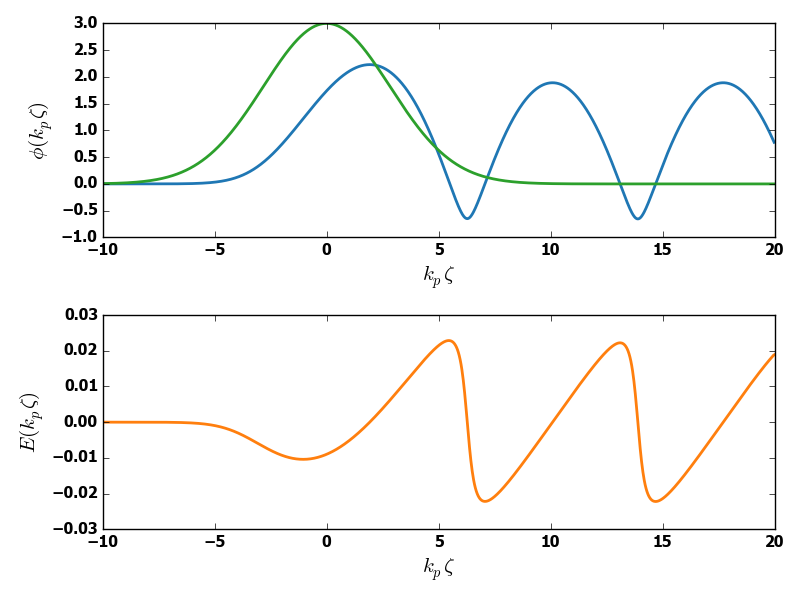
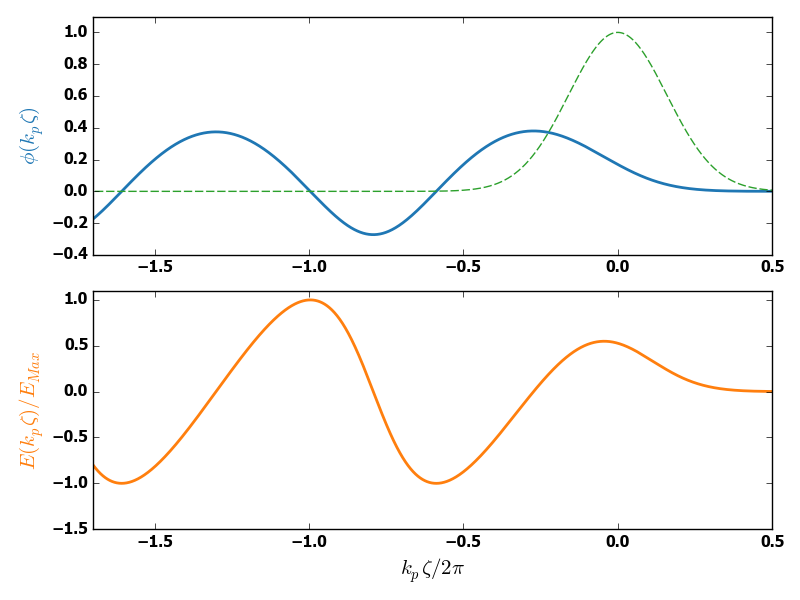
Added trajectories

diff --git a/LaserPlasmaAcc/Trajectories.py b/LaserPlasmaAcc/Trajectories.py
@@ -23,8 +23,8 @@ my_path = "C:\Users\\vernier\PycharmProjects\octo-elective\\"
 ##############################################
 
 n_e_cm = 1e19 # in cm-3
-a0 = 3.
-zeta_s = 4.
+a0 = 1.
+zeta_s = 2.
 zeta_0 = 0.0
 wavelength = 800*1e-9
 
@@ -39,6 +39,8 @@ omega_0 = 2*3.14*cs.c/wavelength
 gamma_p = omega_0/omega_p
 beta_p = 1 - 0.5*m.pow(omega_p/omega_0, 2)
 
+print "Gamma p = " + str(gamma_p)
+print "Beta p = " + str(beta_p)
 k_p = omega_p/cs.c
 v_p = cs.c*(1+0.5*m.pow(omega_p/omega_0, 2))
 
@@ -53,8 +55,6 @@ def H(_gamma, _beta_p, _phi):
 # Solution for gamma
 def gamma (_H0, _phi):
     if m.pow(gamma_p, 2)*m.pow(_H0 + _phi, 2) - 1 < 0:
-        print "H0 = " + str(_H0)
-        print "phi = " + str(_phi)
         return None, None
     else:
         g0 = gamma_p*gamma_p*(_H0 + _phi)
@@ -62,6 +62,19 @@ def gamma (_H0, _phi):
         sol1 = g0 - g1
         sol2 = g0 + g1
         return  sol1, sol2
+
+
+def uz (_H0, _phi, _a):
+    gamma_t_sq = 1 + _a*_a
+    if m.pow(gamma_p, 2)*pow((_H0 + _phi), 2) < gamma_t_sq :
+        return None, None
+    g0 = gamma_p * gamma_p * beta_p*(_H0 + _phi)
+    g1 = gamma_p*m.sqrt(
+             m.pow(gamma_p, 2)*pow((_H0 + _phi), 2) - gamma_t_sq
+         )
+    sol1 = g0 - g1
+    sol2 = g0 + g1
+    return sol1 +1., sol2 + 1.
 
 # Electrostatic potential
 def phi_def(_zeta):
@@ -77,9 +90,9 @@ def a_zeta(_zeta):
 ##############################################
 
 # Make time array for solution
-tStart = -10.0
-tStop = 20.
-tNum = 1000
+tStart = -5.0
+tStop = 12.
+tNum = 10000
 tInc = tStop/tNum
 t = np.arange(tStart, tStop, tInc)
 
@@ -111,17 +124,20 @@ fig = plt.figure(1, figsize=(8,6), dpi=80, facecolor='w', edgecolor='k', linewid
 
 # Plot theta as a function of time
 ax1 = fig.add_subplot(211)
-ax1.plot(t, psoln[:, 0], linewidth=2, color=tableau20[0])
-ax1.plot(t, [a_zeta(zeta) for zeta in t], linewidth=2, color=tableau20[4])
-ax1.set_xlabel('$k_p\zeta$', fontsize=15)
-ax1.set_ylabel('$\phi(k_p\zeta)$', fontsize=15)
+ax1.plot(-t/(2*3.14), psoln[:, 0], linewidth=2, color=tableau20[0])
+ax1.plot(-t/(2*3.14), [a_zeta(zeta)*a_zeta(zeta) for zeta in t], dashes=[6, 2], linewidth=1, color=tableau20[4])
+ax1.set_ylabel('$\phi(k_p\zeta)$', fontsize=15, color=tableau20[0])
+
+ax1.set_xlim(-1.7, 0.5)
+ax1.set_ylim(-0.4, 1.1)
 
 # Plot derivative as a function of zetakp
 ax2 = fig.add_subplot(212)
-ax2.plot(t, -np.gradient(psoln[:, 0]), linewidth=2, color=tableau20[2])
-ax2.set_xlabel('$k_p\zeta$', fontsize=15)
-ax2.set_ylabel('$E(k_p\zeta )$', fontsize=15)
-
+ax2.plot(-t/(2*3.14), np.gradient(psoln[:, 0])/max(np.gradient(psoln[:, 0])), linewidth=2, color=tableau20[2])
+ax2.set_xlabel('$k_p\zeta/2\pi$', fontsize=15)
+ax2.set_ylabel('$E(k_p\zeta )/E_{Max}$', fontsize=15, color=tableau20[2])
+ax2.set_xlim(-1.7, 0.5)
+ax2.set_ylim(-1.5, 1.1)
 plt.tight_layout()
 plt.savefig(my_path + '1D_Field_and_Potential.png')
 
@@ -135,15 +151,15 @@ zeta_kp = t
 
 i0_min = 1
 i0_max = tNum - 1
-i0_num = 10
+i0_num = 1
 i0_step = int((i0_max - i0_min)/i0_num)
 
-gamma_min = 5.
-gamma_max = 15.
-gamma_num = 10
+gamma_min = 1.
+gamma_max = 2.8
+gamma_num = 10.
 
 
-gamma_step = (gamma_max - gamma_min)/gamma_num
+gamma_step = (gamma_max)/gamma_num
 
 
 # A few trajectories
@@ -155,17 +171,62 @@ for gamma_0 in np.arange(gamma_min, gamma_max, gamma_step):
         phi_0 = phi_zeta_kp_sol[i0]
 
         H0 = H(gamma_0, beta_p, phi_0)
+
+
         s1 = []
         s2 = []
+
         for i in np.arange(i0, len(zeta_kp)):
             phi = phi_zeta_kp_sol[i]
-            a1, a2 = gamma(H0, phi)
+            a = a_zeta(i)
+            a1, a2 = uz(H0, phi, a)
+
             s1.append(a1)
             s2.append(a2)
 
-        ax1.plot(t[i0:], s1, linewidth=1, color=tableau20[0])
-        ax1.plot(t[i0:], s2, linewidth=1, color=tableau20[2])
+        ax1.semilogy(-t[i0:]/(2*3.14), s1, dashes=[6, 2], linewidth=1, color=tableau20[2])
+        ax1.semilogy(-t[i0:]/(2*3.14), s2, dashes=[6, 2], linewidth=1, color=tableau20[2])
 
 
-plt.show()
+Hsep = 1/gamma_p - min(phi_zeta_kp_sol)
+print "Hsep = " + str(Hsep)
+s1 = []
+s2 = []
+for i in np.arange(i0_min, len(zeta_kp)):
+    phi = phi_zeta_kp_sol[i]
+    a = a_zeta(i)
+    a1, a2 = uz(Hsep, phi, a)
+
+    s1.append(a1)
+    s2.append(a2)
+
+ax1.semilogy(-t[i0:]/(2*3.14), s1, linewidth=2, color=tableau20[6])
+ax1.semilogy(-t[i0:]/(2*3.14), s2, linewidth=2, color=tableau20[6])
+
+Hin = [Hsep/i for i in [2, 3, 5, 50]]
+
+for h in Hin:
+    for i0 in np.arange(i0_min, i0_max, i0_step):
+        phi_0 = phi_zeta_kp_sol[i0]
+
+        H0 = h
+        s1 = []
+        s2 = []
+
+        for i in np.arange(i0, len(zeta_kp)):
+            phi = phi_zeta_kp_sol[i]
+            a = a_zeta(i)
+            a1, a2 = uz(H0, phi, a)
+
+            s1.append(a1)
+            s2.append(a2)
+
+        ax1.semilogy(-t[i0:]/(2*3.14), s1, dashes=[6, 2], linewidth=1, color=tableau20[2])
+        ax1.semilogy(-t[i0:]/(2*3.14), s2, dashes=[6, 2], linewidth=1, color=tableau20[2])
+
+ax1.set_xlim(-1.7, 0.5)
+ax1.set_xlabel('$k_p\zeta/2\pi$', fontsize=15)
+ax1.set_ylabel('$u_z+1$', fontsize=15)
+plt.savefig(my_path + 'trajectories.png')
+
 

diff --git a/LaserPlasmaAcc/SimpleFigures.py b/LaserPlasmaAcc/SimpleFigures.py
@@ -19,35 +19,56 @@ matplotlib.rc('font', **font)
 
 my_path = "C:\Users\\vernier\PycharmProjects\octo-elective\\"
 
-
-
 ##############################################
-#       STABILITY DIAGRAM LINEAR CAVITY      #
+#       OBJECT AND IMAGE SPACE               #
 ##############################################
-
-def g2_f(_g1):
-    return 1/_g1
-
-g1_t = np.append(np.arange(-10, -0.001, 0.001), np.arange(0.001, 10, 0.001))
-g2_t = [g2_f(g1) for g1 in g1_t]
 
 fig = plt.figure(1, figsize=(10,10), dpi=80, facecolor='w', edgecolor='k', frameon=False)
 plt.xticks([])
 plt.yticks([])
 # Plot theta as a function of time
 ax1 = fig.add_subplot(111)
-ax1.plot(g1_t, g2_t, linewidth=2, color=tableau20[2])
-ax1.fill_between(g1_t, 0, g2_t, linewidth=2, color=tableau20[3])
+
+ax1.fill_between(x, 0, 1,  facecolor='green', alpha=0.5)
 
 ax1.set_xlabel('$g1$', fontsize=30)
 ax1.set_ylabel('$g2$', fontsize=30)
 ax1.set_ylim(-1., 1.)
+ax1.set_xlim(-1., 1.)
 ax1.axhline(0, color='black')
 ax1.axvline(0, color='black')
 plt.tight_layout()
 #plt.show()
-plt.savefig(my_path + 'stability.png')
+#plt.savefig(my_path + 'espaces.png')
 
+
+##############################################
+#       STABILITY DIAGRAM LINEAR CAVITY      #
+##############################################
+
+# def g2_f(_g1):
+#     return 1/_g1
+#
+# g1_t = np.append(np.arange(-10, -0.001, 0.001), np.arange(0.001, 10, 0.001))
+# g2_t = [g2_f(g1) for g1 in g1_t]
+#
+# fig = plt.figure(1, figsize=(10,10), dpi=80, facecolor='w', edgecolor='k', frameon=False)
+# plt.xticks([])
+# plt.yticks([])
+# # Plot theta as a function of time
+# ax1 = fig.add_subplot(111)
+# ax1.plot(g1_t, g2_t, linewidth=2, color=tableau20[2])
+# ax1.fill_between(g1_t, 0, g2_t, linewidth=2, color=tableau20[3])
+#
+# ax1.set_xlabel('$g1$', fontsize=30)
+# ax1.set_ylabel('$g2$', fontsize=30)
+# ax1.set_ylim(-1., 1.)
+# ax1.axhline(0, color='black')
+# ax1.axvline(0, color='black')
+# plt.tight_layout()
+# #plt.show()
+# plt.savefig(my_path + 'stability.png')
+#
 
 
 ##############################################
